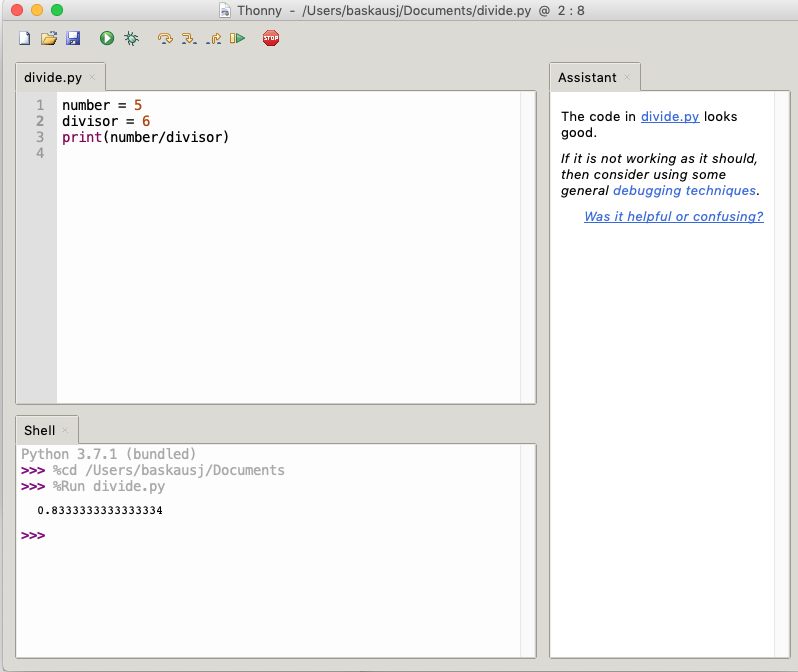
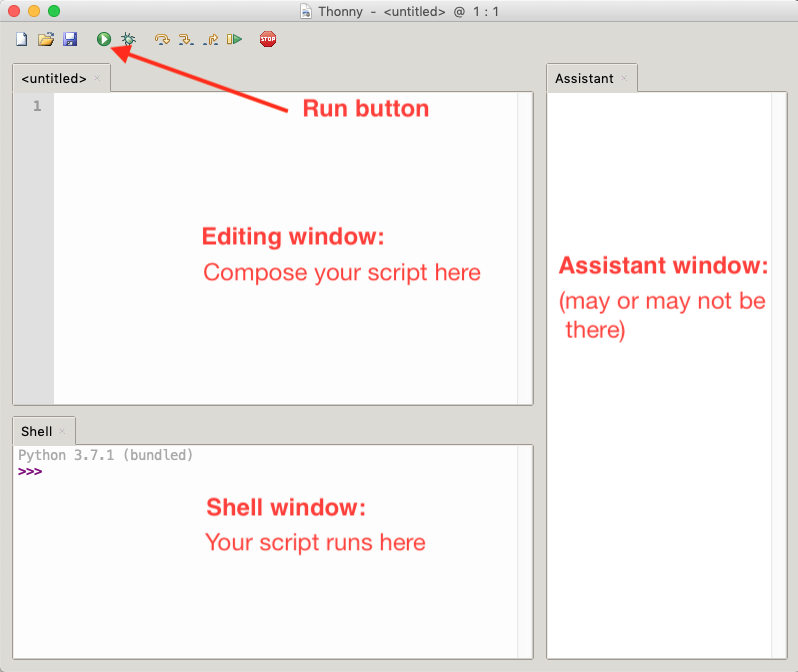
finish Thonny install instructions

Changed region(s): [[0.0, 0.0, 0.9925, 1.0], [0.2406, 0.3125, 0.6015, 0.4375], [0.6917, 0.0938, 0.812, 0.125]]

diff --git a/script/python/thonny.md b/script/python/thonny.md
@@ -86,5 +86,36 @@ Double-click it to start.  Otherwise, find and run the Thonny application from y
 
 1\. When your run Thonny, there will be at least two panes visible in the window.  The top pane is the editing window.  This is the place where you can compose your script.  The bottom pane, called the Shell window, is the place where the script runs.
 
+<img src="../images/thonny-7.png" style="border:1px solid black">
+
+A third window, the Assistant window, may or may not be there.  It will pop up as necessary.
+
+2\. To test Thonny, copy and paste this script into the editing window:
+
+```python
+number = 5
+divisor = 6
+print(number/divisor)
+```
+
+To run the script, click the green Run button.  
+
+*Note: if this is the first time you have run a new script, Thonny will prompt you to save the script somewhere.  Since this is practice, it doesn't matter where you save it or what you call the file, although you should end the file name with the extension ".py".*
+
+The results will show up in the Shell window.  In this case the Assistant window has indicated that everything was good with my code.
+
 <img src="../images/thonny-8.png" style="border:1px solid black">
 
+3\. We can also directly issue Python commands by typing them in the Shell window.  For example, if I want to know what the value of the variable `number` is, I can type the command
+
+```python
+print(number)
+```
+
+directly in the Shell window, then press Enter (or Return) to execute the command and see the results immediately.  
+
+<img src="../images/thonny-9.png" style="border:1px solid black">
+
+4\. The Assistant window may be helpful if there are errors.  In the example below, there were several unnecessary spaces inserted at the beginning of line 3.  Because Python is particularly sensitive to incorrect indentation, this caused an error when the script was run.  The error shows up in the Shell window, but the error message is also displayed in a more cleaned-up form in the Assistant window.
+
+<img src="../images/thonny-9a.png" style="border:1px solid black">
